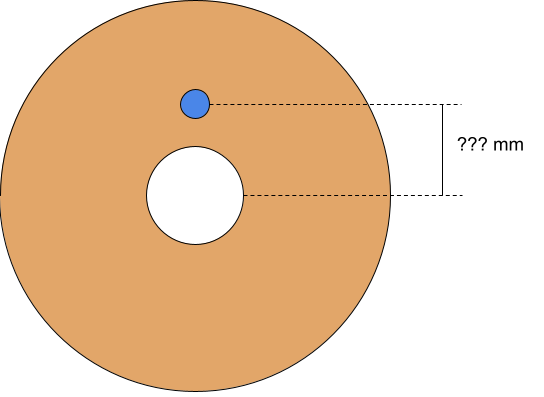
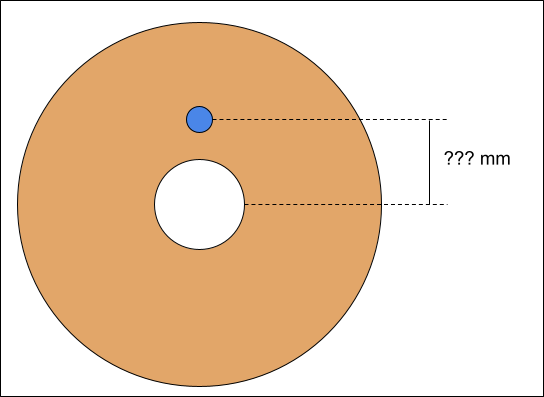
Added mechanical properties Fixed data inconsistencies Moved density from optional to required

diff --git a/README.md b/README.md
@@ -8,6 +8,7 @@ We want to make a standard that is simple to implement and as future-proof as po
 * [Backers](#backers)
 * [Why RFID](#why-rfid)
 * [RFID Hardware](#rfid-hardware)
+* [Mechanical Requirements](#mechanical-requirements)
 * [Data Structure](#data-structure)
     * [RFID Memory](#rfid-memory)
     * [Lookup Tables vs Plain-Text](#lookup-tables-vs-plain-text)
@@ -34,6 +35,17 @@ What is the benefit of adding RFID chips to filament?
 MiFare 13.56MHZ Classic 1K tags
 
 These are cheap, common, and allow 1kilobyte of data to be stored on them, which is plenty of space to store required information.  13.56Mhz readers are also very low-cost, and there are plenty of arduino-compatible reader/writers to allow user-made printer upgrades to add RFID support.
+
+# Mechanical Requirements
+TBD, open to discussion. 
+
+Questions to answer:
+* Should tag location be relative to center of spool, or outer diameter?
+* What is the maximum spool thickness allowed?
+* Does the tag go on the inside or outside of the spool?
+* Which side does the tag go on? One side? Both?
+
+<img src="images/TagLocation.png" width="400">
 
 # Data Structure
 
